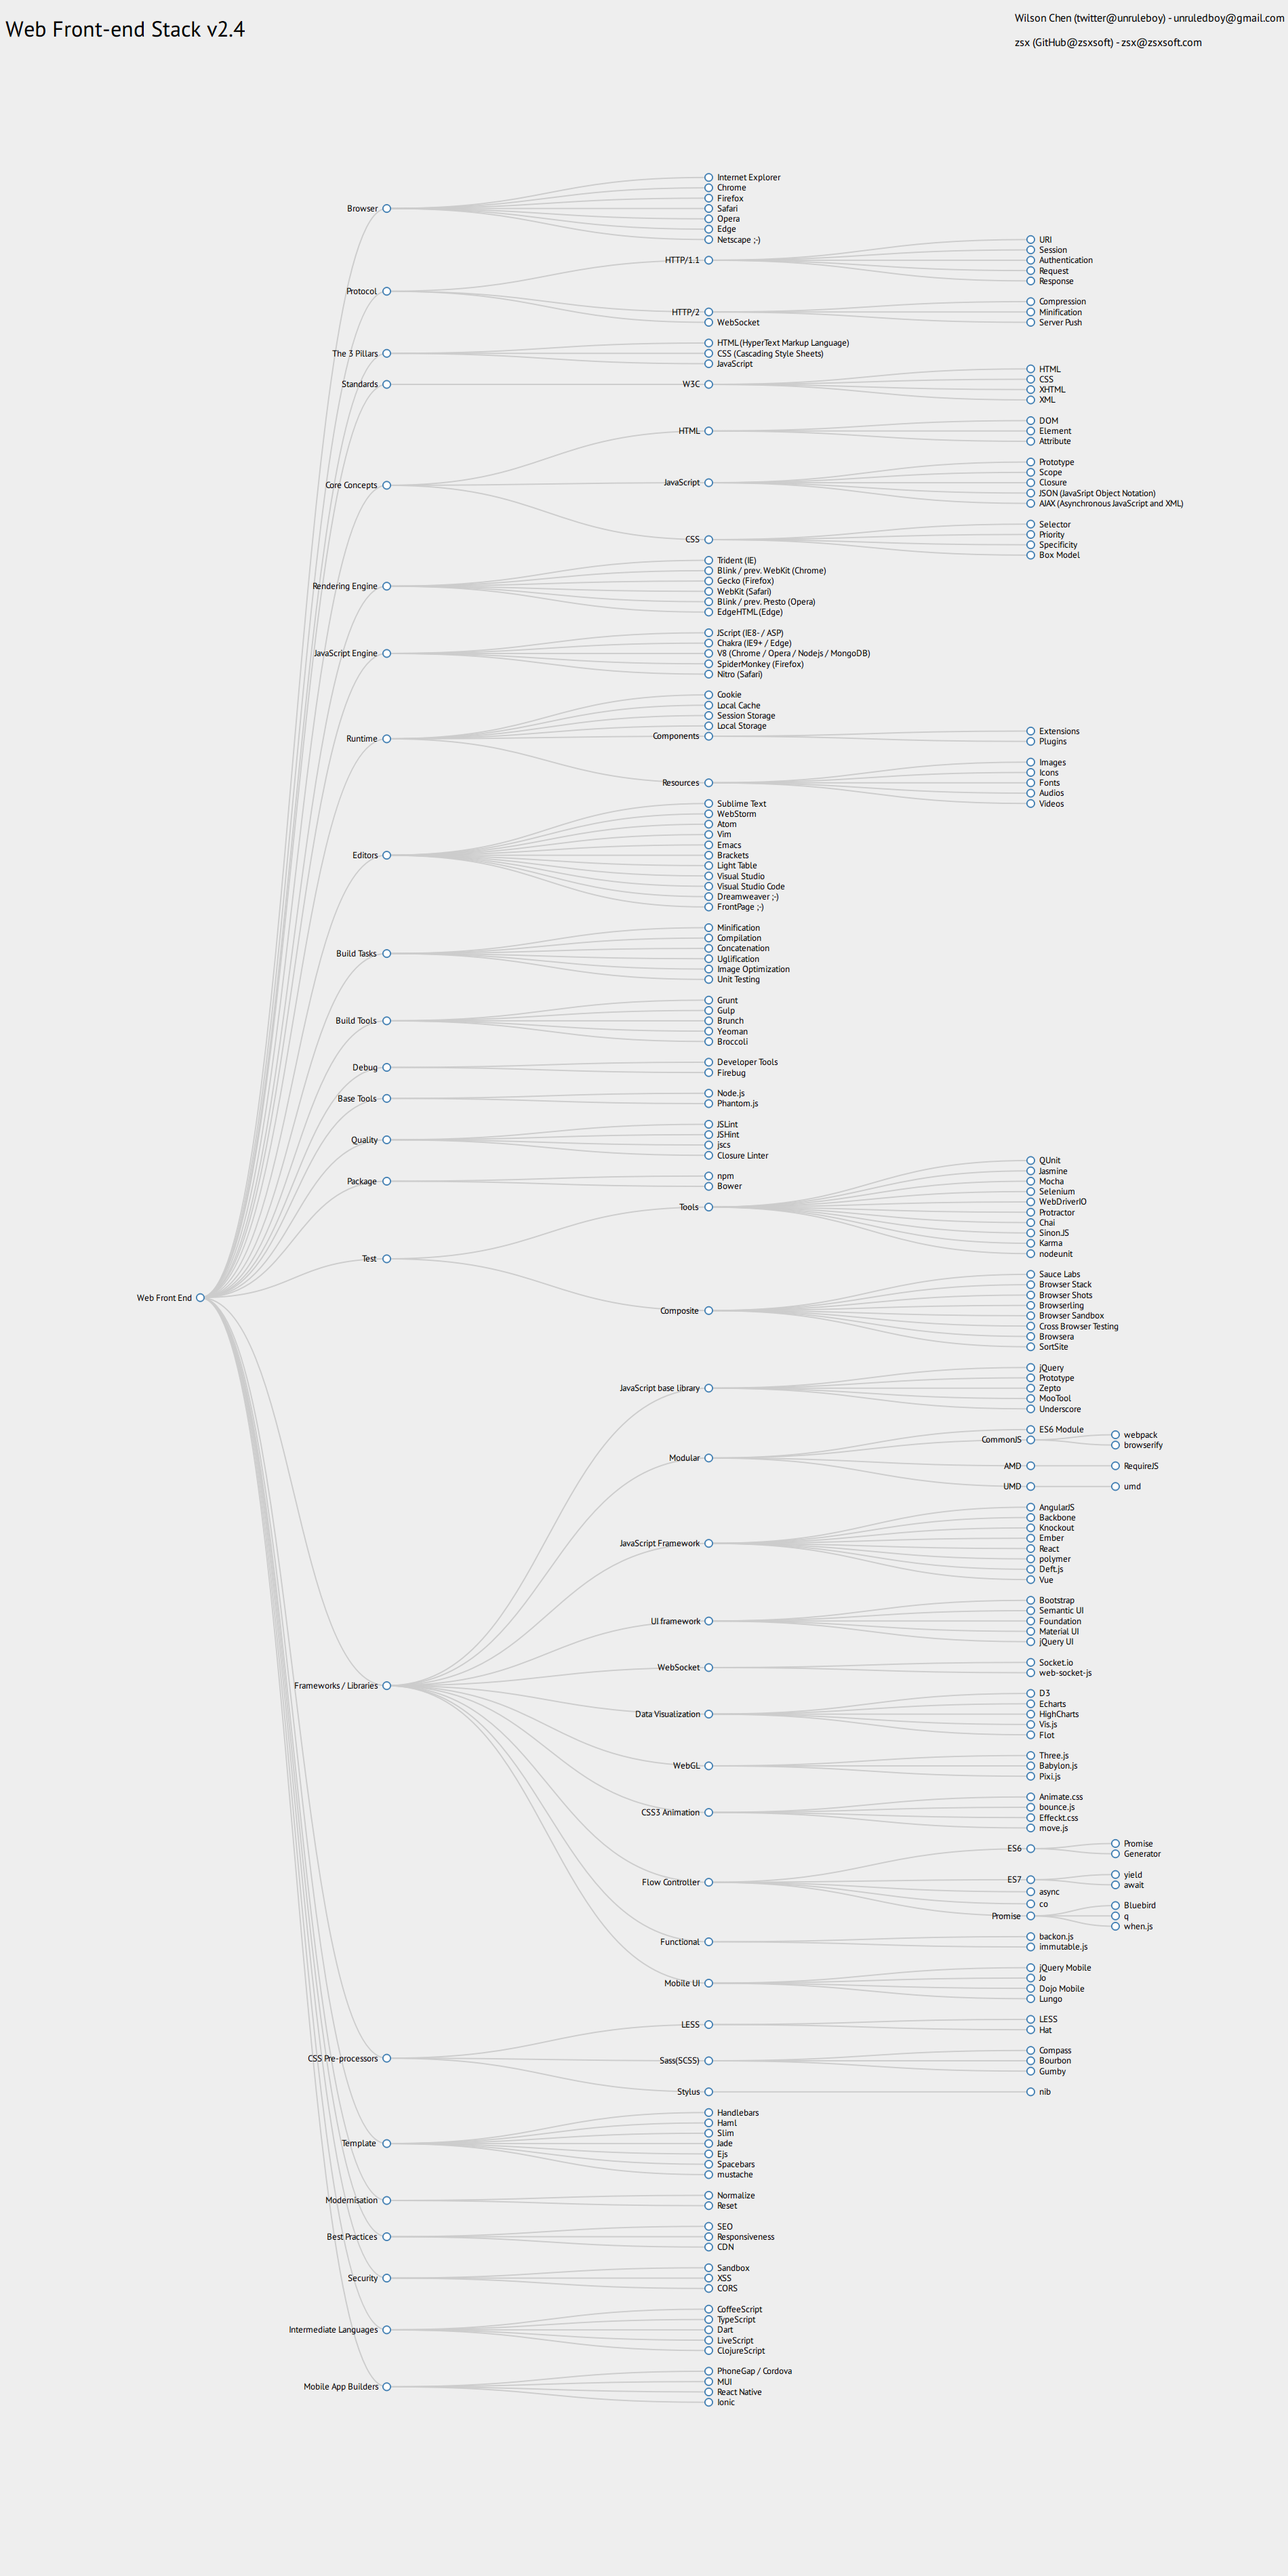
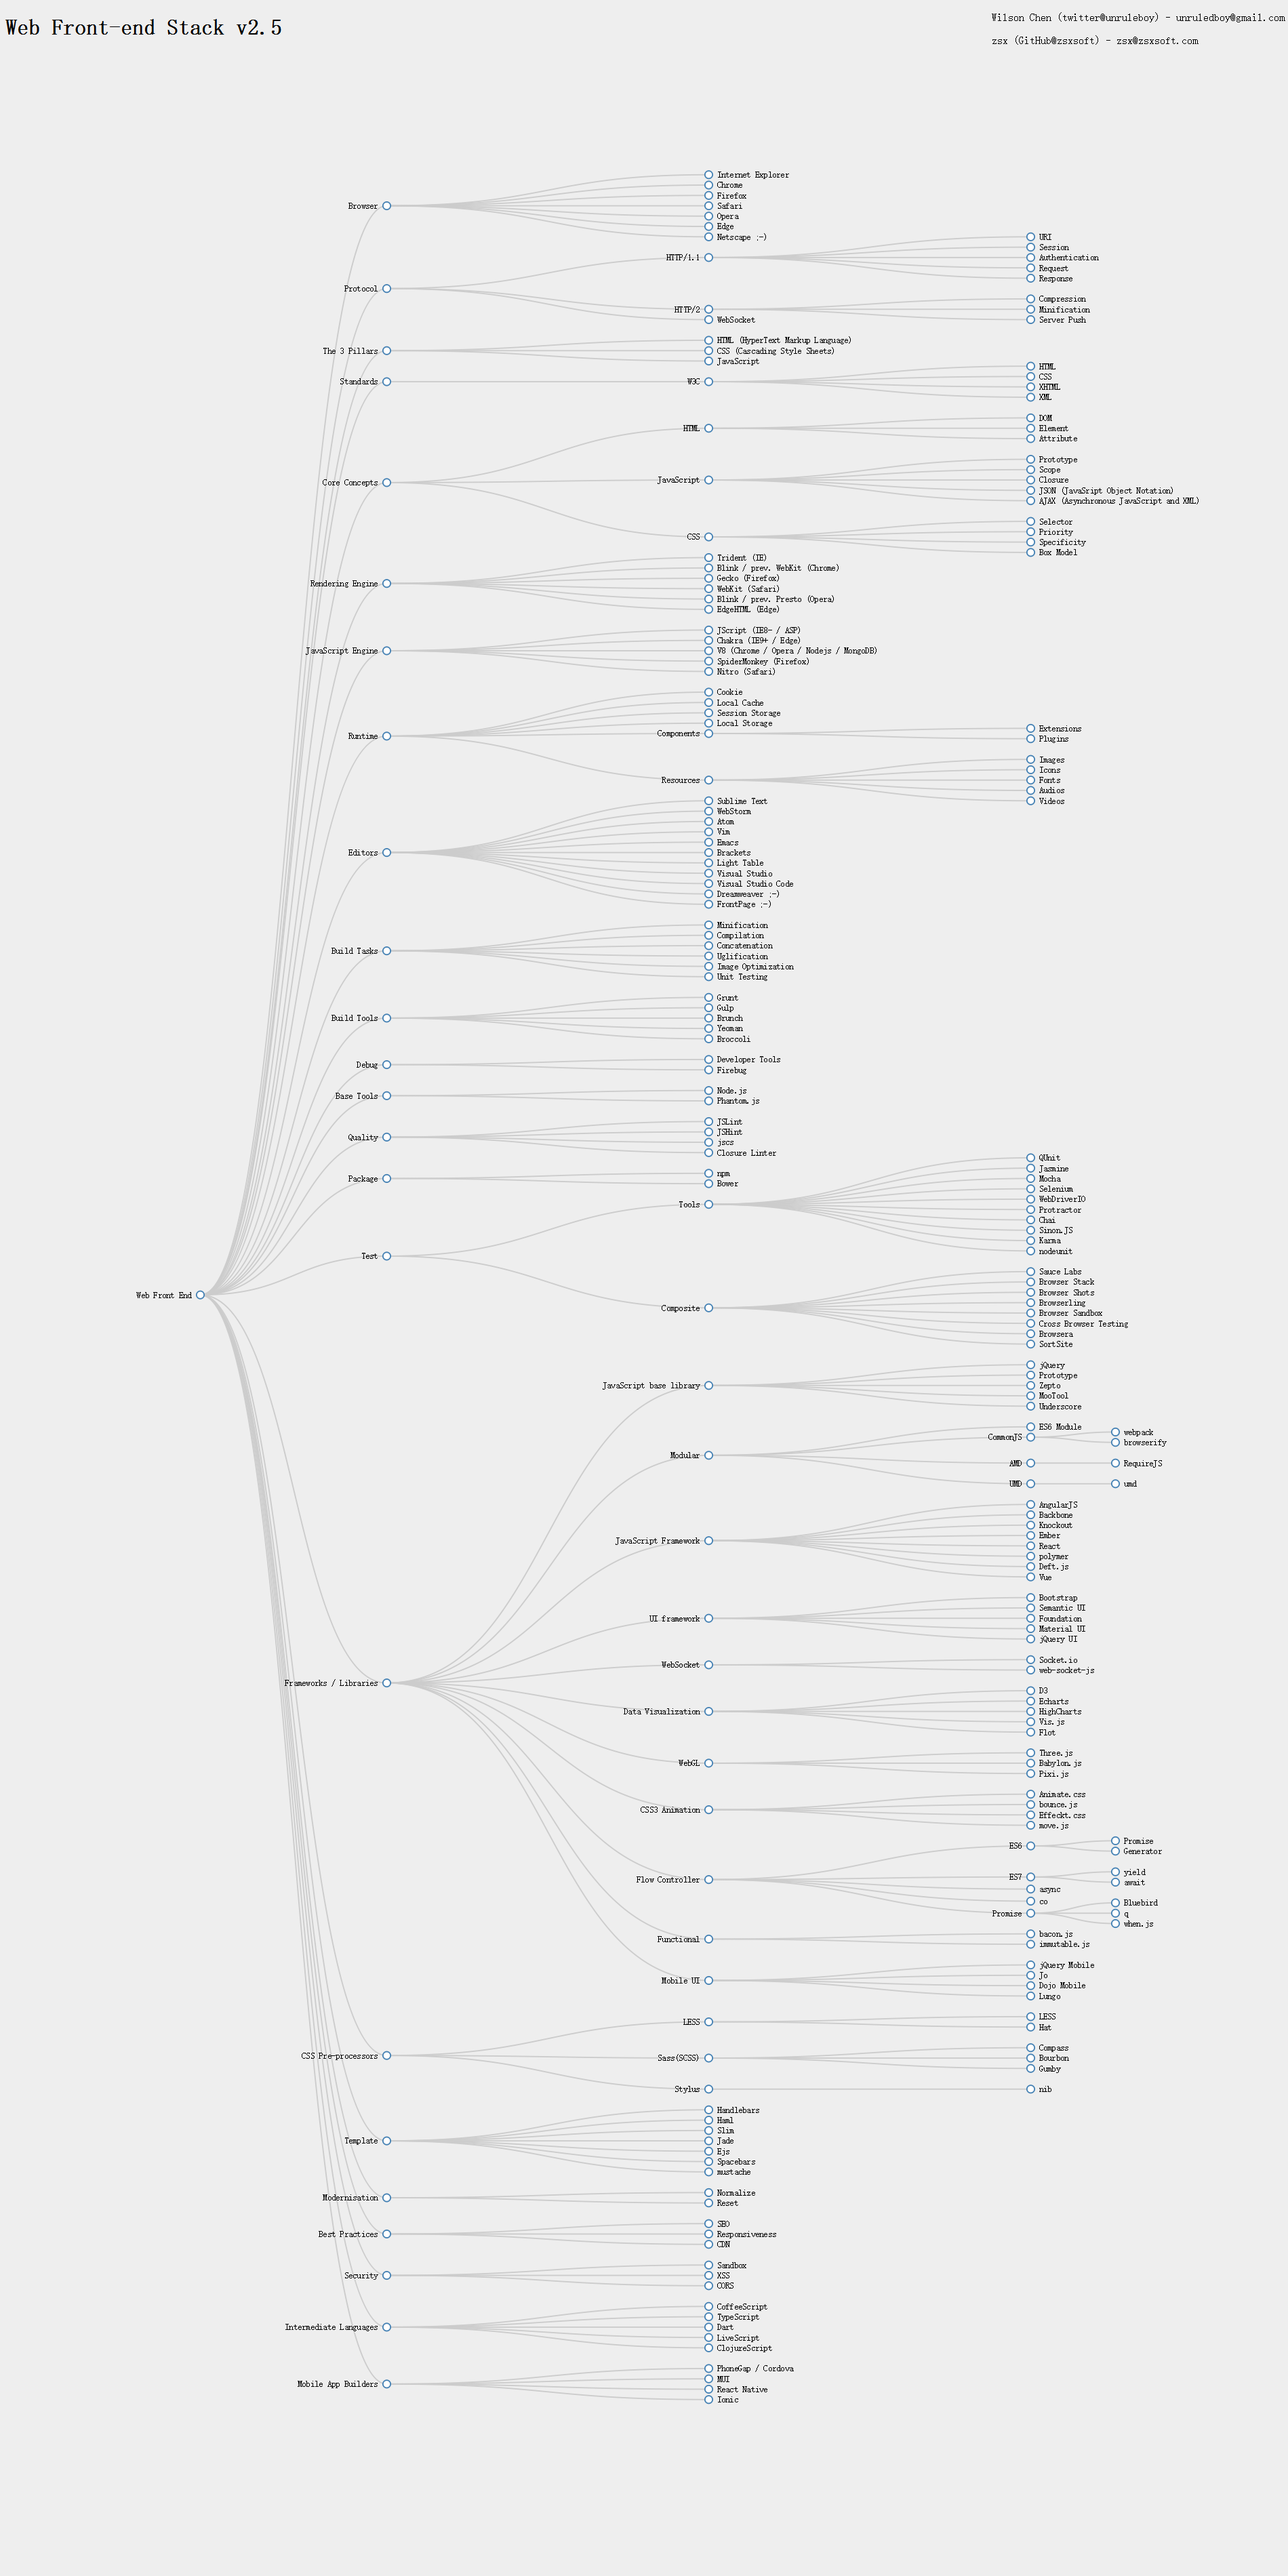
2.5
fixed typo, thanks https://github.com/gabrielperales

diff --git a/ux/WebFrontEndStack.htm b/ux/WebFrontEndStack.htm
@@ -95,7 +95,7 @@
     <div class="container">
         <header>
             <div class="left">
-                <h1><a href="https://github.com/unruledboy/WebFrontEndStack" target="_blank">Web Front-end Stack v2.4</a></h1>
+                <h1><a href="https://github.com/unruledboy/WebFrontEndStack" target="_blank">Web Front-end Stack v2.5</a></h1>
             </div>
             <div class="right">
                 <p><a href="http://github.com/unruledboy">Wilson Chen (twitter@unruleboy) - unruledboy@gmail.com</a></p>

diff --git a/README.zh-cn.md b/README.zh-cn.md
@@ -271,7 +271,7 @@ https://rawgit.com/unruledboy/WebFrontEndStack/master/ux/WebFrontEndStack.htm?lo
 				- q [[GitHub]](https://github.com/kriskowal/q/)
 				- when.js [[GitHub]](https://github.com/cujojs/when/)
 		- 函数式编程
-			- backon.js [[GitHub]](https://github.com/baconjs/bacon.js/)
+			- [bacon.js](http://baconjs.github.io/) [[GitHub]](https://github.com/baconjs/bacon.js/)
 			- [immutable.js](https://facebook.github.io/immutable-js/) [[GitHub]](https://github.com/facebook/immutable-js/)
 		- 手机 UI 框架
 			- [jQuery Mobile](https://jquerymobile.com/) [[GitHub]](https://github.com/jquery/jquery-mobile/)

diff --git a/README.md b/README.md
@@ -264,7 +264,7 @@ https://rawgit.com/unruledboy/WebFrontEndStack/master/ux/WebFrontEndStack.htm
 				- q [[GitHub]](https://github.com/kriskowal/q/)
 				- when.js [[GitHub]](https://github.com/cujojs/when/)
 		- Functional
-			- backon.js [[GitHub]](https://github.com/baconjs/bacon.js/)
+			- [bacon.js](http://baconjs.github.io/) [[GitHub]](https://github.com/baconjs/bacon.js/)
 			- [immutable.js](https://facebook.github.io/immutable-js/) [[GitHub]](https://github.com/facebook/immutable-js/)
 		- Mobile UI
 			- [jQuery Mobile](https://jquerymobile.com/) [[GitHub]](https://github.com/jquery/jquery-mobile/)
